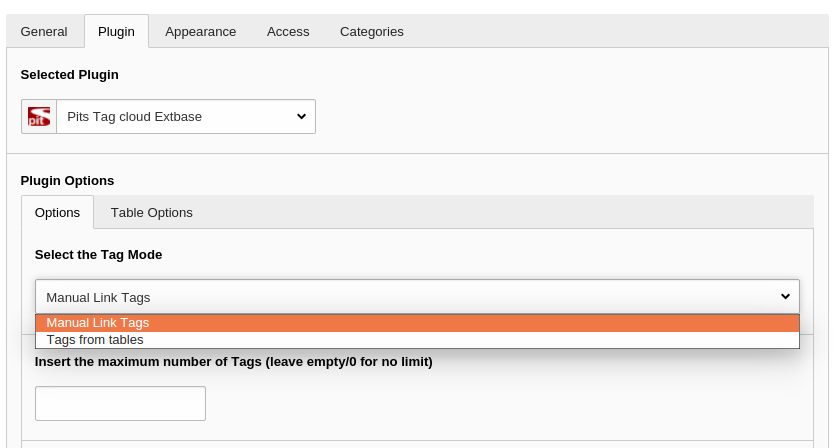
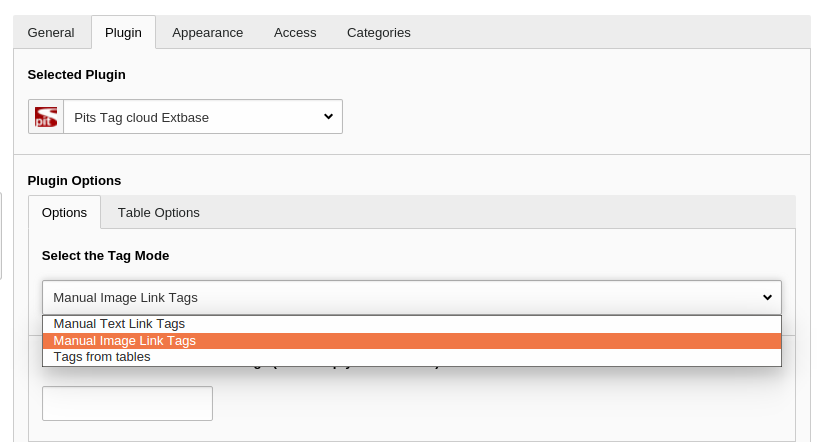
documentation update

diff --git a/Documentation/Introduction/Index.rst b/Documentation/Introduction/Index.rst
@@ -9,11 +9,11 @@
 What does it do?
 ================
 
-Tag cloud is an user friendly extension to generate tag clouds. The tags can be either manually created with links or it can be taken from various fields of existing database tables.
+Tag cloud is an user friendly extension to generate tag clouds. The tags can be either created manually using text or image with links or it can be taken from various fields of existing database tables.
 
-The Tag cloud can be made colourful and attractive. The weight of manually added tags can be specified for each tag. Whereas the weight (font-size) for tags from tables is generated automatically according to its number of occurances in the respective tables.
+The Tag cloud can be made colourful and attractive. The weight of manually added tags can be specified for each tag by specifying its size. Whereas the weight (font-size) for tags from tables is generated automatically according to its number of occurances in the respective tables.
 
-You can insert multiple tag clouds in a page.
+You can insert any number of tagclouds in a page.
 
 The extension uses tagCanvas for rendering animated tags.
 
@@ -22,5 +22,11 @@ The extension uses tagCanvas for rendering animated tags.
 	:width: 500px
 	:alt: pits_tagcloud
 
-	An example tag cloud.
+	An example text tag cloud.
 
+
+.. figure:: ../Images/frontend2.png
+	:width: 500px
+	:alt: pits_tagcloud
+
+	An example image tag cloud.

diff --git a/Documentation/UsersManual/Configuration/Index.rst b/Documentation/UsersManual/Configuration/Index.rst
@@ -17,9 +17,10 @@ Configuration
 
 	Choose the plugin options.
 
-The plugin has two options for tag mode:
-    1. Manual link tags.
-    2. Tags from tables.
+The plugin has three options for tag mode:
+    1. Manual Text link tags.
+    2. Manual Image link tags
+    3. Tags from tables.
 
 
 General Options
@@ -47,14 +48,16 @@ General Options
 
 
 Manual Link tags
-================
+=================
 You can create tags of your choice with this option.
 
 Step1: Create a folder/Choose a page where you can create tags.
 -----
 
-Step2: Go to the list view and add new items 'Tags'.
+Step2: Go to the list view and add new items 'Tags' or 'Iamge Tag'
 -----
+
+Tag fields:-
 
 * Tag Text - Name of tag (mandatory)
 * Tag Link url - The link to which the tag points to when clicking.
@@ -65,6 +68,19 @@ Step2: Go to the list view and add new items 'Tags'.
 	:alt: Create tags
 
 	Create tags.
+
+Image Tag fields:-
+
+* Image - Select/ upload the image
+* Width - Width of image
+* Height - height of image
+* Link url - The link to which the image points to on click.
+
+.. figure:: ../../Images/backend3_1.png
+	:width: 700px
+	:alt: Create image tags
+
+	Create image tags
 
 
 Step3: Save your tag and create as many as you want.

diff --git a/Documentation/Index.rst b/Documentation/Index.rst
@@ -24,10 +24,10 @@ Pits Tag Cloud ExtBase
 		en
 
 	:Description:
-		A frontend plugin that generates tag cloud.Tags can be user specified manual tags with links or tags generated out from existing database tables.
+		A frontend plugin that generates tag cloud.Tags can be user specified manual text/image tags with links or tags generated out from existing database tables.
 
 	:Keywords:
-		Tags, tagcloud, pitsolutions, custom tags
+		Tags, tagcloud, pitsolutions, custom tags, image tagcloud
 
 	:Copyright:
 		2016-2017
@@ -59,7 +59,5 @@ Pits Tag Cloud ExtBase
 	Introduction/Index
 	UsersManual/Index
 	KnownProblems/Index
-
-
-
+	ChangeLog/Index
 

diff --git a/Documentation/ChangeLog/Index.rst b/Documentation/ChangeLog/Index.rst
@@ -1,0 +1,22 @@
+.. ==================================================
+.. FOR YOUR INFORMATION
+.. --------------------------------------------------
+.. -*- coding: utf-8 -*- with BOM.
+
+.. include:: ../Includes.txt
+
+
+.. _changelog:
+
+ChangeLog
+=========
+
+Version 1.1
+------------
+
+The new version has the following changes and features:
+
+1. New feature to add image tag cloud.
+2. Can choose multiple record storage folders/pages.
+3. Can include mutiple tagclouds in a page.
+
